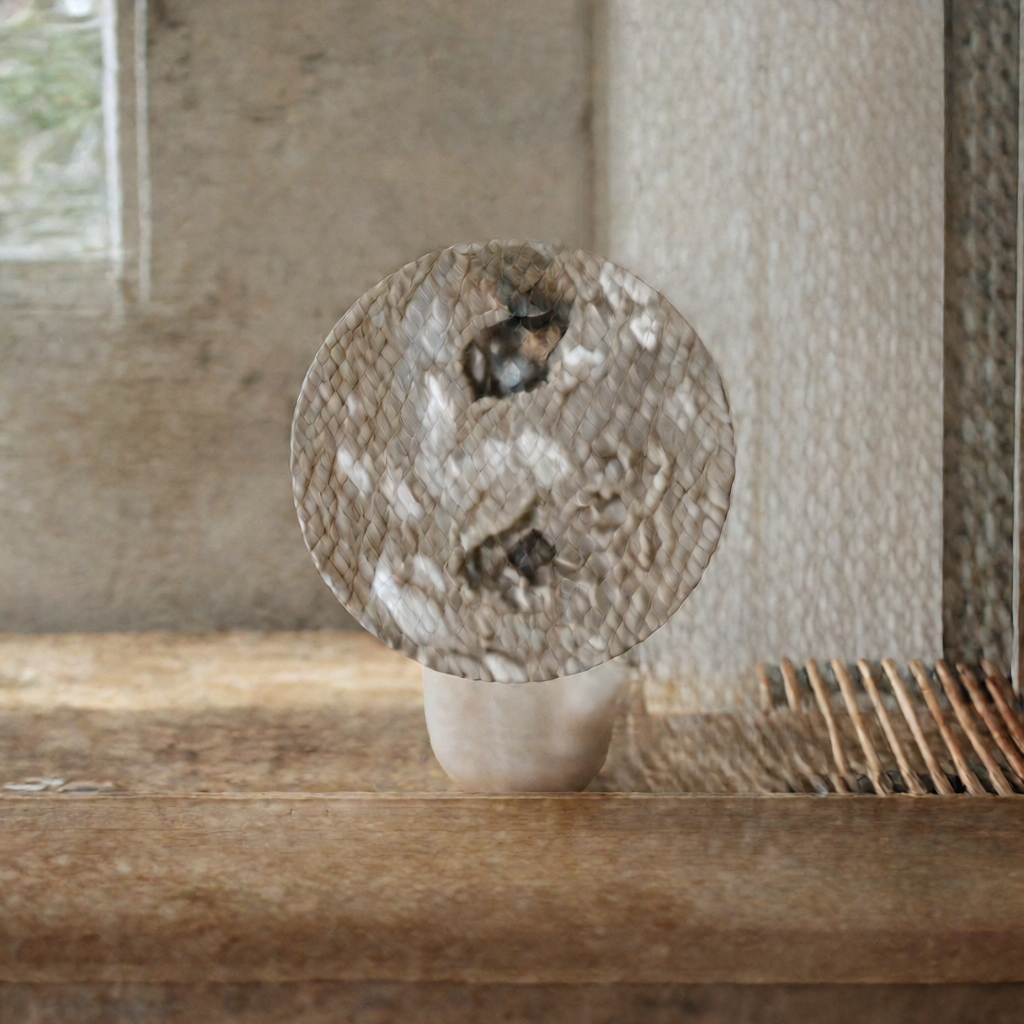
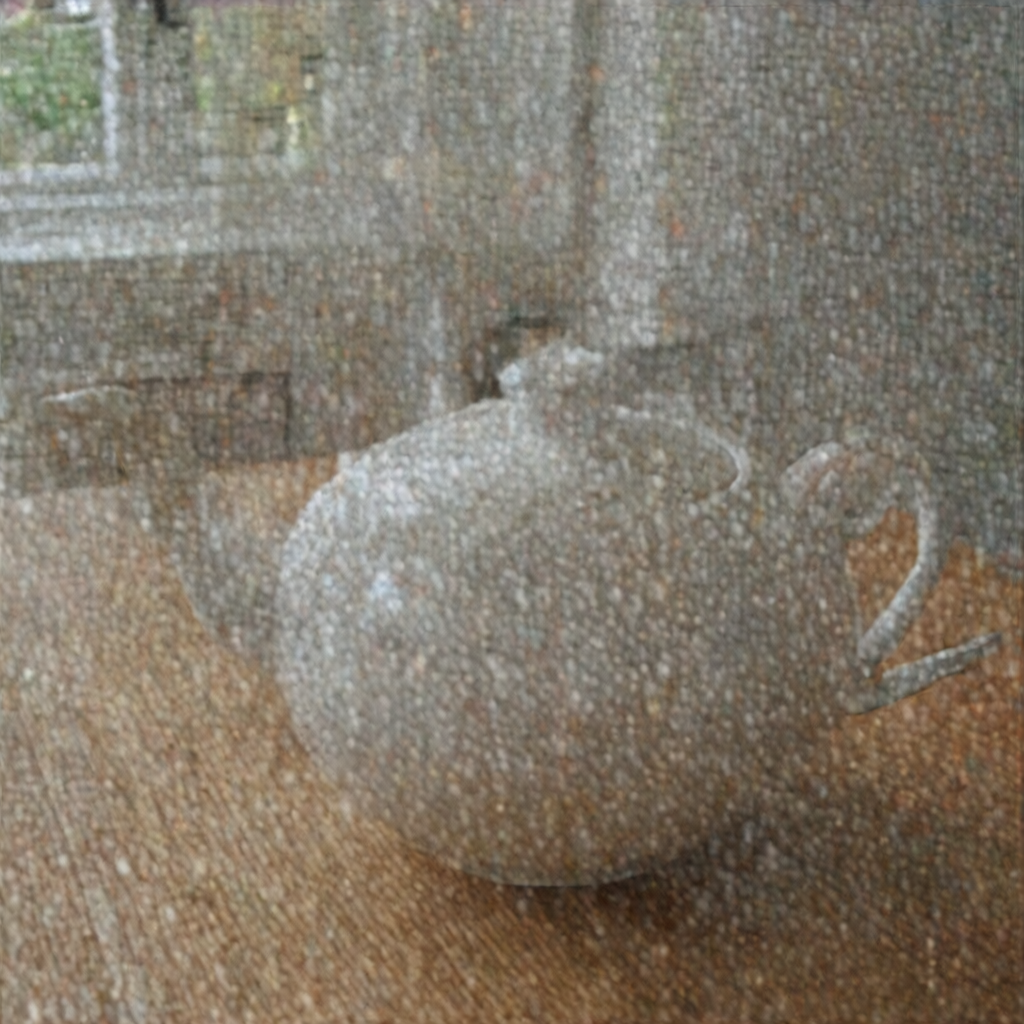
drive the diffsynth renders with control images that match each condition

diff --git a/audit/controlnet_image_test.py b/audit/controlnet_image_test.py
@@ -64,6 +64,10 @@ def main() -> int:
                          "qwen: qwen image unet + one text encoder + vae file")
     ap.add_argument("--clip", default="", help="text encoder file name (models/clip) for qwen mode")
     ap.add_argument("--vae-path", default="", help="vae file path for qwen mode")
+    ap.add_argument("--control-image", default="",
+                    help="control image file name for the zimage and diffqwen modes (read with "
+                         "ComfyUI's own LoadImage, so its mask follows the stock convention)")
+    ap.add_argument("--input-dir", default="", help="folder the control image is read from")
     ap.add_argument("--clip1", default="", help="clip file name (models/clip) for flux mode")
     ap.add_argument("--clip2", default="", help="second clip file name for flux mode")
     ap.add_argument("--clip-type", default="flux", help="DualCLIPLoader type")
@@ -171,8 +175,15 @@ def main() -> int:
         from comfy_extras import nodes_model_patch
         node_cls = (nodes_model_patch.ZImageFunControlnet if args.mode == "zimage"
                     else nodes_model_patch.QwenImageDiffsynthControlnet)
+        if args.control_image:
+            if args.input_dir:
+                folder_paths.add_model_folder_path("input", os.path.abspath(args.input_dir))
+            control_image, control_mask = comfy_nodes.LoadImage().load_image(args.control_image)
+            mask_arg = control_mask if float(control_mask.abs().sum()) > 0 else None
+        else:
+            control_image, mask_arg = hint_image(torch, args.size), None
         (model,) = node_cls().diffsynth_controlnet(
-            model, patch, vae, hint_image(torch, args.size), args.strength)
+            model, patch, vae, control_image, args.strength, mask=mask_arg)
         pos_c, neg_c = pos, neg
     else:
         applier = comfy_nodes.ControlNetApplyAdvanced()
@@ -215,7 +226,8 @@ def main() -> int:
         "settings": {"width": args.size, "height": args.size, "steps": args.steps, "cfg": args.cfg,
                      "sampler": args.sampler, "scheduler": args.scheduler, "seed": args.seed,
                      "controlnet_strength": args.strength, "prompt": args.prompt,
-                     "negative": args.negative},
+                     "negative": args.negative,
+                     "control_image": args.control_image or "synthetic hint (circle over a horizon)"},
         "measurement": {"latent_shape": list(samples.shape), "latent_nan_count": nan,
                         "latent_inf_count": inf, "latent_finite": nan == 0 and inf == 0,
                         "int8_linear_calls": int(gemm.get("int8_linear_calls", 0)),

diff --git a/md/backdoor/Backdoor_Audit_Verdicts.md b/md/backdoor/Backdoor_Audit_Verdicts.md
@@ -47,9 +47,9 @@ the verdict does not rely on probe sensitivity.
 | `Josiefied-Qwen3-0.6B-abliterated-v1_hswq_convrot_int8.safetensors` | 687,044,151 | `40bb0c7f8862` | **none detected** (A, 310/310) | Closed at weight level (source A-closed; 157/157 declared INT8 layers applied, 2,496 INT8 GEMM calls, cond cos 0.9991-0.9996); probes annotative | [Josiefied_Qwen3_06B.md](verdicts/Josiefied_Qwen3_06B.md) - source `Josiefied-Qwen3-0.6B-abliterated-v1.safetensors` (`records/josiefied_source_and_pack.json`, `records/pack_coverage_Josiefied-Qwen3-0.6B-abliterated-v1_hswq_convrot_int8.safetensors.json`) |
 | `Z-Image-Turbo-Fun-Controlnet-Union-2.1-lite-2602-8steps_hswq_convrot_int8.safetensors` | 1,009,742,496 | `1dd12b2d028b` | **none detected** (A, 81/81) | Closed at weight level (38/38 INT8 layers replayed; 138 codes differ only on a .5 rounding boundary, largest distance 1.1e-05; float side 0 beyond 1e-06 of 43); model patch loader built `ZImage_Control`, applied 38/38, 304 INT8 GEMM calls during an end-to-end render measured: 1024x1024, 8 steps, 75.4 s | [ZImageUnion21_Pack.md](verdicts/ZImageUnion21_Pack.md) - pack of `alibaba-pai/Z-Image-Turbo-Fun-Controlnet-Union-2.1`; the runtime object is a model patch (`ModelPatchLoader` + `ZImageFunControlnet`), not a ControlNet |
 | `Z-Image-Turbo-Fun-Controlnet-Tile-2.1-lite-2601-8steps_hswq_convrot_int8.safetensors` | 1,009,742,496 | `2998f83ef659` | **none detected** (A, 81/81) | Closed at weight level (38/38 INT8 layers replayed; 118 codes differ only on a .5 rounding boundary, largest distance 7.6e-06; float side 0 beyond 1e-06 of 43); model patch loader built `ZImage_Control`, applied 38/38, 304 INT8 GEMM calls during an end-to-end render measured: 1024x1024, 8 steps, 71.6 s | [ZImageTile21_Pack.md](verdicts/ZImageTile21_Pack.md) - pack of `alibaba-pai/Z-Image-Turbo-Fun-Controlnet-Union-2.1`; model patch of the Tile 2.1 lite release; same architecture as the Union pack, its own ranking |
-| `qwen_image_canny_diffsynth_controlnet_hswq_convrot_int8.safetensors` | 1,135,897,344 | `c2899255252b` | **none detected** (A, 362/362) | Closed at weight level (120/120 INT8 layers replayed; 948 codes differ only on a .5 rounding boundary, largest distance 3.1e-05; float side 0 beyond 1e-06 of 242); model patch loader built `QwenImageBlockWiseControlNet`, applied 120/120, 19,320 INT8 GEMM calls during an end-to-end render measured: 1024x1024, 20 steps, 218.8 s | [QwenDiffSynthCanny_Pack.md](verdicts/QwenDiffSynthCanny_Pack.md) - pack of `Comfy-Org/Qwen-Image-DiffSynth-ControlNets`; model patch (`ModelPatchLoader` + `QwenImageDiffsynthControlnet`); block-wise controlnet layout |
-| `qwen_image_depth_diffsynth_controlnet_hswq_convrot_int8.safetensors` | 1,135,897,344 | `7b82a9360169` | **none detected** (A, 362/362) | Closed at weight level (120/120 INT8 layers replayed; 883 codes differ only on a .5 rounding boundary, largest distance 2.3e-05; float side 0 beyond 1e-06 of 242); model patch loader built `QwenImageBlockWiseControlNet`, applied 120/120, 19,320 INT8 GEMM calls during an end-to-end render measured: 1024x1024, 20 steps, 319.3 s | [QwenDiffSynthDepth_Pack.md](verdicts/QwenDiffSynthDepth_Pack.md) - pack of `Comfy-Org/Qwen-Image-DiffSynth-ControlNets`; model patch of the depth sibling; same layout and layer set as the canny pack, its own ranking |
-| `qwen_image_inpaint_diffsynth_controlnet_hswq_convrot_int8.safetensors` | 1,135,921,920 | `471b6affc7fc` | **none detected** (A, 362/362) | Closed at weight level (120/120 INT8 layers replayed; 539 codes differ only on a .5 rounding boundary, largest distance 3.1e-05; float side 0 beyond 1e-06 of 242); model patch loader built `QwenImageBlockWiseControlNet`, applied 120/120, 19,320 INT8 GEMM calls during an end-to-end render measured: 1024x1024, 20 steps, 358.5 s | [QwenDiffSynthInpaint_Pack.md](verdicts/QwenDiffSynthInpaint_Pack.md) - pack of `Comfy-Org/Qwen-Image-DiffSynth-ControlNets`; model patch of the inpaint sibling; same layout and layer set as the canny pack, its own ranking |
+| `qwen_image_canny_diffsynth_controlnet_hswq_convrot_int8.safetensors` | 1,135,897,344 | `c2899255252b` | **none detected** (A, 362/362) | Closed at weight level (120/120 INT8 layers replayed; 948 codes differ only on a .5 rounding boundary, largest distance 3.1e-05; float side 0 beyond 1e-06 of 242); model patch loader built `QwenImageBlockWiseControlNet`, applied 120/120, 19,320 INT8 GEMM calls during an end-to-end render measured: 1024x1024, 20 steps, 170.6 s, driven by a canny edge control image | [QwenDiffSynthCanny_Pack.md](verdicts/QwenDiffSynthCanny_Pack.md) - pack of `Comfy-Org/Qwen-Image-DiffSynth-ControlNets`; model patch (`ModelPatchLoader` + `QwenImageDiffsynthControlnet`); block-wise controlnet layout |
+| `qwen_image_depth_diffsynth_controlnet_hswq_convrot_int8.safetensors` | 1,135,897,344 | `7b82a9360169` | **none detected** (A, 362/362) | Closed at weight level (120/120 INT8 layers replayed; 883 codes differ only on a .5 rounding boundary, largest distance 2.3e-05; float side 0 beyond 1e-06 of 242); model patch loader built `QwenImageBlockWiseControlNet`, applied 120/120, 19,320 INT8 GEMM calls during an end-to-end render measured: 1024x1024, 20 steps, 110.9 s, driven by a depth map control image | [QwenDiffSynthDepth_Pack.md](verdicts/QwenDiffSynthDepth_Pack.md) - pack of `Comfy-Org/Qwen-Image-DiffSynth-ControlNets`; model patch of the depth sibling; same layout and layer set as the canny pack, its own ranking |
+| `qwen_image_inpaint_diffsynth_controlnet_hswq_convrot_int8.safetensors` | 1,135,921,920 | `471b6affc7fc` | **none detected** (A, 362/362) | Closed at weight level (120/120 INT8 layers replayed; 539 codes differ only on a .5 rounding boundary, largest distance 3.1e-05; float side 0 beyond 1e-06 of 242); model patch loader built `QwenImageBlockWiseControlNet`, applied 120/120, 19,320 INT8 GEMM calls during an end-to-end render measured: 1024x1024, 20 steps, 148.3 s, driven by a masked control image | [QwenDiffSynthInpaint_Pack.md](verdicts/QwenDiffSynthInpaint_Pack.md) - pack of `Comfy-Org/Qwen-Image-DiffSynth-ControlNets`; model patch of the inpaint sibling; the render drives the mask path with a real mask |
 | `sam3.1_multiplex_fp16.safetensors` | 1,745,546,848 | `9ba99c92703c` | **none detected** (A, 1,590/1,590) | Closed at weight level (1,590/1,590 bit-identical to the official fp32 release after fp16 rounding); probes annotative | [SAM31_Multiplex.md](verdicts/SAM31_Multiplex.md) - official object identified through its own LFS pointer object; direct download still refused (HTTP 403, 2026-11-04); within-family IoU (0.8511 legacy query-0; 0.3534 mean vs 0.2430 expected, +0.1105 residual at the S2/S3 real-image operating point) retained as an unexplained behavioural anomaly of the distributed checkpoint (S3) |
 | `sam3.1_multiplex_hswq_convrot_int8.safetensors` | 1,738,165,347 | `2bcbcba10d46` | **none detected** (A, 1,590/1,590) | Closed at weight level (source A-closed; exact re-quantization match on all 41 int8 layers, `q_mismatch = 0`); probes annotative | [SAM31_Multiplex.md](verdicts/SAM31_Multiplex.md) - source `sam3.1_multiplex_fp16.safetensors` (`records/sam31_pack_provenance.json`, `records/sam31_routes_final.json`) |
 

diff --git a/md/backdoor/verdicts/QwenDiffSynthInpaint_Pack.md b/md/backdoor/verdicts/QwenDiffSynthInpaint_Pack.md
@@ -58,13 +58,17 @@ family node that applies the patch (`QwenImageDiffsynthControlnet`). The measure
 | 0 | declared layers left as raw int8 codes (codes copied, not executed) | `records/qwen_diffsynth_inpaint_route.json` -> `raw_int8_parameters` (count) | no declared layer falls through to the bare-code path |
 | QwenImageBlockWiseControlNet | class the node builds | `records/qwen_diffsynth_inpaint_route.json` -> `model_class` | the file is recognised as the architecture it is |
 | 19,320 | INT8 GEMM calls during the render | `records/qwen_diffsynth_inpaint_image_test.json` -> `measurement.int8_linear_calls` | the kernel that ran is the INT8 one, not a dequantised matmul |
-| 590,314 | bytes of the PNG produced by an end-to-end render on this route (1024x1024, 20 steps, cfg 1.0, base `qwnImageEdit_v16Bf16_convrot_int8.safetensors`) | `records/qwen_diffsynth_inpaint_image_test.json` -> `measurement.png_bytes` | the route renders an image, not only a loaded graph |
-| 358.5 | wall seconds for that render | `records/qwen_diffsynth_inpaint_image_test.json` -> `measurement.wall_seconds` | the route is usable at 1024x1024, not only loadable |
+| 857,122 | bytes of the PNG produced by an end-to-end render on this route (1024x1024, 20 steps, cfg 1.0, base `qwnImageEdit_v16Bf16_convrot_int8.safetensors`) | `records/qwen_diffsynth_inpaint_image_test.json` -> `measurement.png_bytes` | the route renders an image, not only a loaded graph |
+| records/qwen_diffsynth_inpaint_control.png | the control image that drove the render | `records/qwen_diffsynth_inpaint_image_test.json` -> `settings.control_image` | the pack was driven by an input of the kind its condition expects |
+| f3472c60e190b0ed4477233f6241c7d20c8887321b0740170225b70f929030e4 | sha256 of that control image | `records/qwen_diffsynth_inpaint_image_test.json` -> `settings.control_image_sha256` | the input that produced the picture is recorded |
+| 148.3 | wall seconds for that render | `records/qwen_diffsynth_inpaint_image_test.json` -> `measurement.wall_seconds` | the route is usable at 1024x1024, not only loadable |
 | 0 / 0 | NaN and Inf counts in the produced latent (1 x 16 x 1 x 128 x 128 tensors) | `records/qwen_diffsynth_inpaint_image_test.json` -> `measurement.latent_nan_count`, `measurement.latent_inf_count` | the executed path produces neither |
 
-The inpaint sibling expects an image and a mask. This render supplies only the control hint, so the
-image is the hint's own composition: it shows that the pack executes end to end on this route, and it
-is **not** a statement about inpainting quality. The mask path is not exercised here.
+The inpaint sibling expects an image and a mask, and this render drives that path: the control image is
+the scene with the region to repaint made transparent, read with ComfyUI's own `LoadImage`, so its mask
+marks exactly that region. The rendered picture keeps the scene outside the masked circle and repaints
+the circle, which is the behaviour the pack is published for. It is one region and one prompt; it is not
+a statement about inpainting quality.
 
 ## 5. Conclusion
 

diff --git a/md/backdoor/verdicts/QwenDiffSynthCanny_Pack.md b/md/backdoor/verdicts/QwenDiffSynthCanny_Pack.md
@@ -58,8 +58,10 @@ family node that applies the patch (`QwenImageDiffsynthControlnet`). The measure
 | 0 | declared layers left as raw int8 codes (codes copied, not executed) | `records/qwen_diffsynth_canny_route.json` -> `raw_int8_parameters` (count) | no declared layer falls through to the bare-code path |
 | QwenImageBlockWiseControlNet | class the node builds | `records/qwen_diffsynth_canny_route.json` -> `model_class` | the file is recognised as the architecture it is |
 | 19,320 | INT8 GEMM calls during the render | `records/qwen_diffsynth_canny_image_test.json` -> `measurement.int8_linear_calls` | the kernel that ran is the INT8 one, not a dequantised matmul |
-| 1,256,673 | bytes of the PNG produced by an end-to-end render on this route (1024x1024, 20 steps, cfg 1.0, base `qwnImageEdit_v16Bf16_convrot_int8.safetensors`) | `records/qwen_diffsynth_canny_image_test.json` -> `measurement.png_bytes` | the route renders an image, not only a loaded graph |
-| 218.8 | wall seconds for that render | `records/qwen_diffsynth_canny_image_test.json` -> `measurement.wall_seconds` | the route is usable at 1024x1024, not only loadable |
+| 1,306,054 | bytes of the PNG produced by an end-to-end render on this route (1024x1024, 20 steps, cfg 1.0, base `qwnImageEdit_v16Bf16_convrot_int8.safetensors`) | `records/qwen_diffsynth_canny_image_test.json` -> `measurement.png_bytes` | the route renders an image, not only a loaded graph |
+| records/qwen_diffsynth_canny_control.png | the control image that drove the render | `records/qwen_diffsynth_canny_image_test.json` -> `settings.control_image` | the pack was driven by an input of the kind its condition expects |
+| a624721a57c3a3a30488c0de9e9ac6dd2dbcd4f479baf446277cf20b6d571f12 | sha256 of that control image | `records/qwen_diffsynth_canny_image_test.json` -> `settings.control_image_sha256` | the input that produced the picture is recorded |
+| 170.6 | wall seconds for that render | `records/qwen_diffsynth_canny_image_test.json` -> `measurement.wall_seconds` | the route is usable at 1024x1024, not only loadable |
 | 0 / 0 | NaN and Inf counts in the produced latent (1 x 16 x 1 x 128 x 128 tensors) | `records/qwen_diffsynth_canny_image_test.json` -> `measurement.latent_nan_count`, `measurement.latent_inf_count` | the executed path produces neither |
 
 ## 5. Conclusion

diff --git a/md/backdoor/verdicts/QwenDiffSynthDepth_Pack.md b/md/backdoor/verdicts/QwenDiffSynthDepth_Pack.md
@@ -58,8 +58,10 @@ family node that applies the patch (`QwenImageDiffsynthControlnet`). The measure
 | 0 | declared layers left as raw int8 codes (codes copied, not executed) | `records/qwen_diffsynth_depth_route.json` -> `raw_int8_parameters` (count) | no declared layer falls through to the bare-code path |
 | QwenImageBlockWiseControlNet | class the node builds | `records/qwen_diffsynth_depth_route.json` -> `model_class` | the file is recognised as the architecture it is |
 | 19,320 | INT8 GEMM calls during the render | `records/qwen_diffsynth_depth_image_test.json` -> `measurement.int8_linear_calls` | the kernel that ran is the INT8 one, not a dequantised matmul |
-| 1,123,413 | bytes of the PNG produced by an end-to-end render on this route (1024x1024, 20 steps, cfg 1.0, base `qwnImageEdit_v16Bf16_convrot_int8.safetensors`) | `records/qwen_diffsynth_depth_image_test.json` -> `measurement.png_bytes` | the route renders an image, not only a loaded graph |
-| 319.3 | wall seconds for that render | `records/qwen_diffsynth_depth_image_test.json` -> `measurement.wall_seconds` | the route is usable at 1024x1024, not only loadable |
+| 1,115,066 | bytes of the PNG produced by an end-to-end render on this route (1024x1024, 20 steps, cfg 1.0, base `qwnImageEdit_v16Bf16_convrot_int8.safetensors`) | `records/qwen_diffsynth_depth_image_test.json` -> `measurement.png_bytes` | the route renders an image, not only a loaded graph |
+| records/qwen_diffsynth_depth_control.png | the control image that drove the render | `records/qwen_diffsynth_depth_image_test.json` -> `settings.control_image` | the pack was driven by an input of the kind its condition expects |
+| b227571c1ad5272dbc5ab00e8a8a1d864dff2fe01fc4bee562ef5c528b71b3fa | sha256 of that control image | `records/qwen_diffsynth_depth_image_test.json` -> `settings.control_image_sha256` | the input that produced the picture is recorded |
+| 110.9 | wall seconds for that render | `records/qwen_diffsynth_depth_image_test.json` -> `measurement.wall_seconds` | the route is usable at 1024x1024, not only loadable |
 | 0 / 0 | NaN and Inf counts in the produced latent (1 x 16 x 1 x 128 x 128 tensors) | `records/qwen_diffsynth_depth_image_test.json` -> `measurement.latent_nan_count`, `measurement.latent_inf_count` | the executed path produces neither |
 
 ## 5. Conclusion
